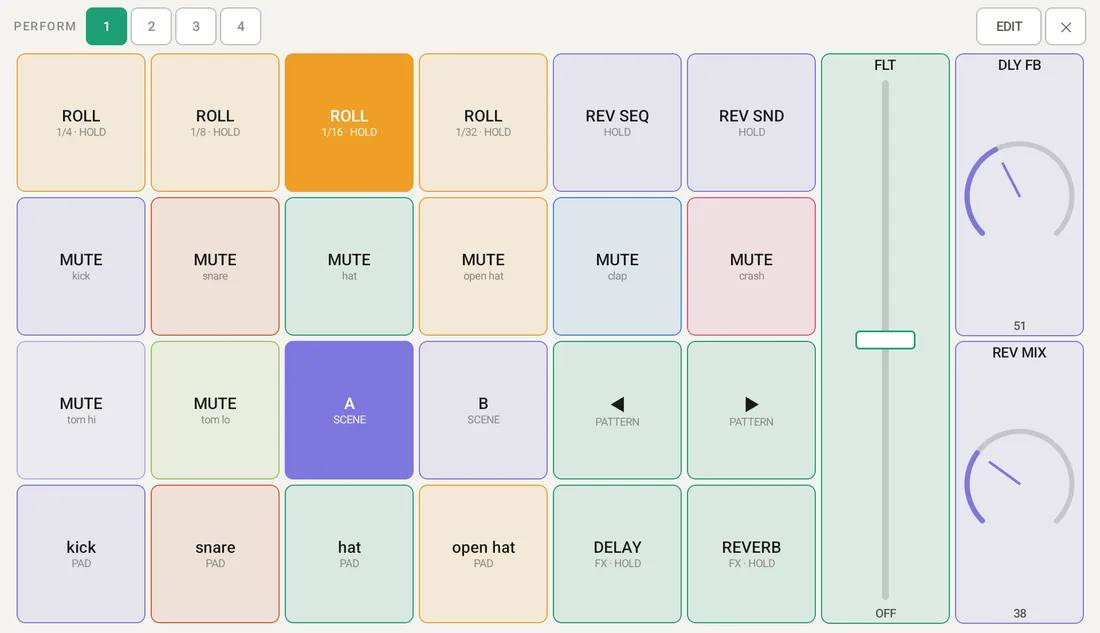
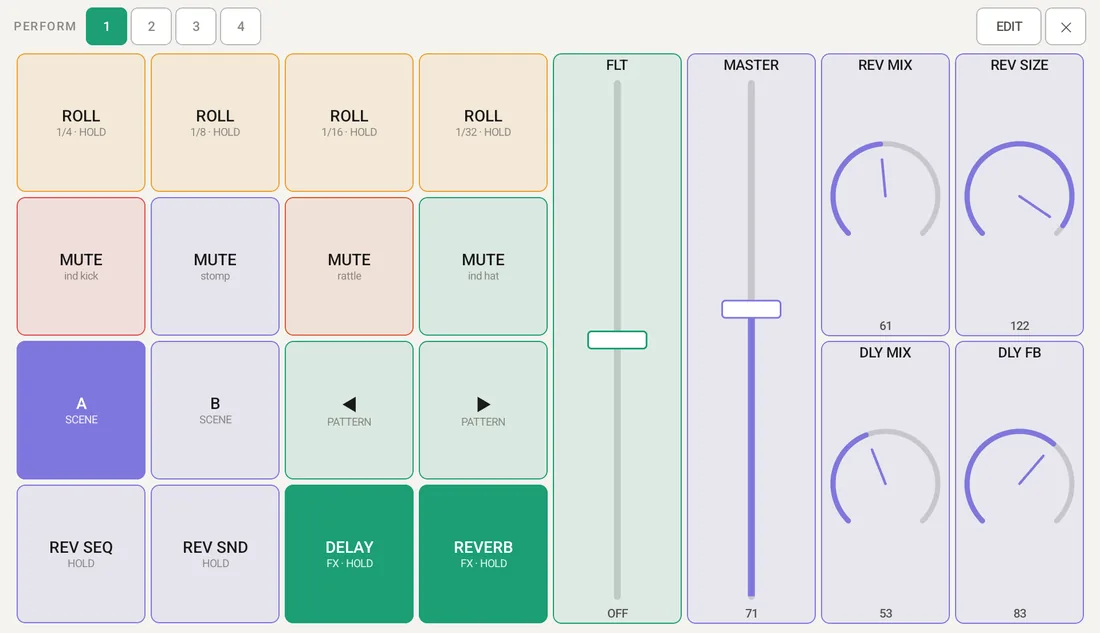
DBR-1 説明書: パフォーマンス画面の既定の配置（vc48）
Claude-Session: https://claude.ai/code/session_014nrG8LAda3EPv8TQp5hzGz

diff --git a/dbr1/manual/ja.html b/dbr1/manual/ja.html
@@ -376,7 +376,7 @@
 <figure><img src="img/perform_screen.webp" alt="パフォーマンス画面"></figure>
 <p>シーケンスを鳴らしながら演奏するための画面です。8×4 のマス目に、ボタン・フェーダー・ノブを好きな大きさで並べて、自分用の演奏の画面を作れます。タブレットはパッドの上の <span class="key">PERF</span>、スマートフォンは左のタブの <b>PERF</b>（PADS の下）で開きます。タブレットでは右上の <span class="key">✕</span> で元の画面に戻ります。</p>
 <ul>
-  <li>ページは 1〜4 です。配置は端末に保存され、どのプロジェクトを開いても同じです（タブレットとスマートフォンの配置は別々）。最初は 1 ページ目に ROLL・MUTE・シーン・パターン・パッド・FX・FLT・ノブが並んでいます。</li>
+  <li>ページは 1〜4 です。配置は端末に保存され、どのプロジェクトを開いても同じです（タブレットとスマートフォンの配置は別々）。最初は 1 ページ目の左にボタン 16 個（ROLL・MUTE・シーン・パターン・REV・FX）、真ん中に FLT と MASTER（音量）のフェーダー、右にリバーブ・ディレイのノブ 4 つが並んでいます。EDIT の ⋯ の「Default layout on this page」でいつでもこの配置に戻せます。</li>
   <li>部品はそれぞれ別の指で同時に触れます（ROLL を押しながらフェーダーを動かす、など）。</li>
   <li>全体フィルターの縦フェーダーはこの画面には出ません。FLT を部品として好きな場所に置けます。</li>
 </ul>

diff --git a/dbr1/manual/en.html b/dbr1/manual/en.html
@@ -376,7 +376,7 @@
 <figure><img src="img/perform_screen.webp" alt="Performance screen"></figure>
 <p>A screen for playing live while the sequence runs. Place buttons, faders and knobs of any size on an 8×4 grid to build your own performance surface. On tablets, open it with <span class="key">PERF</span> above the pads; on phones, with the <b>PERF</b> tab on the left (below PADS). On tablets, <span class="key">✕</span> at the top right goes back.</p>
 <ul>
-  <li>There are 4 pages. The layout is saved on the device and stays the same whichever project you open (tablet and phone layouts are separate). Page 1 starts with ROLL, MUTE, scene, pattern, pad, FX, FLT and knob controls.</li>
+  <li>There are 4 pages. The layout is saved on the device and stays the same whichever project you open (tablet and phone layouts are separate). Page 1 starts with 16 buttons on the left (ROLL, MUTE, scene, pattern, REV and FX), the FLT and MASTER (volume) faders in the middle and four reverb / delay knobs on the right. "Default layout on this page" in EDIT's ⋯ menu brings this layout back at any time.</li>
   <li>Each part can be touched with a different finger at the same time (hold ROLL while moving a fader, for example).</li>
   <li>The master filter fader is not shown on this screen; place FLT as a part wherever you like.</li>
 </ul>
